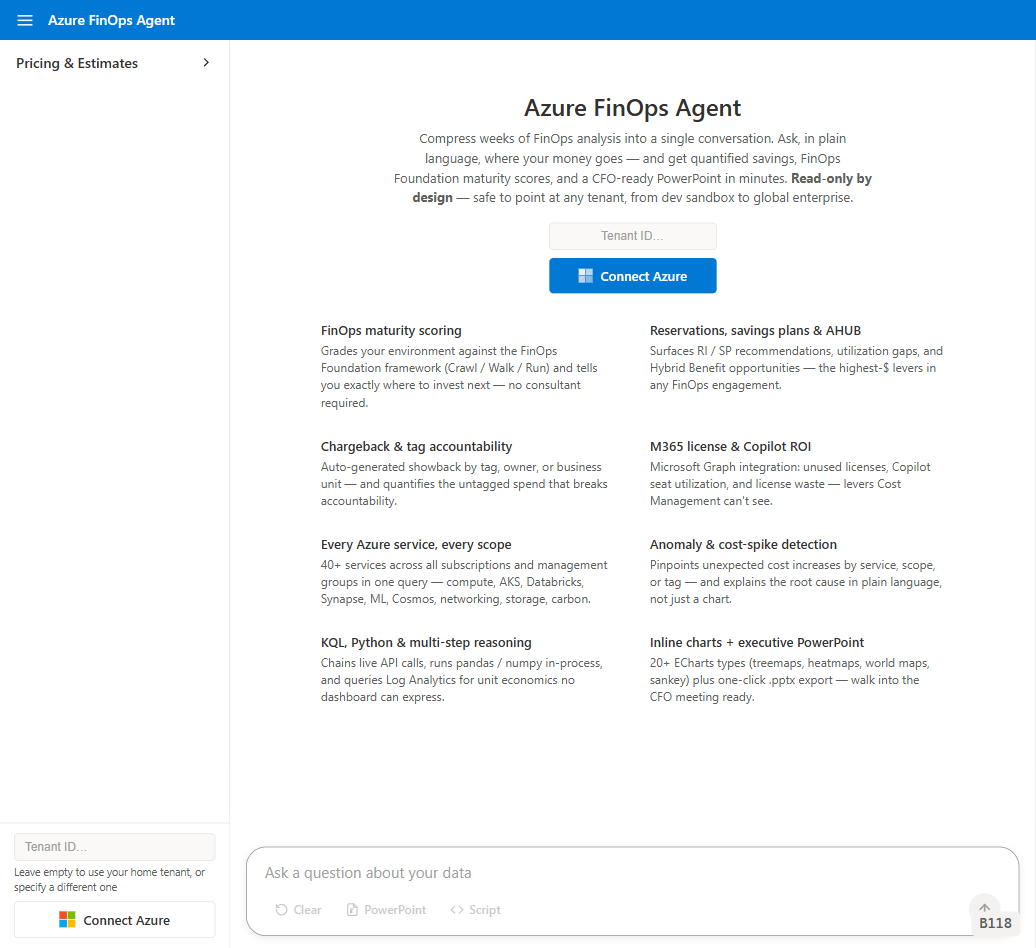
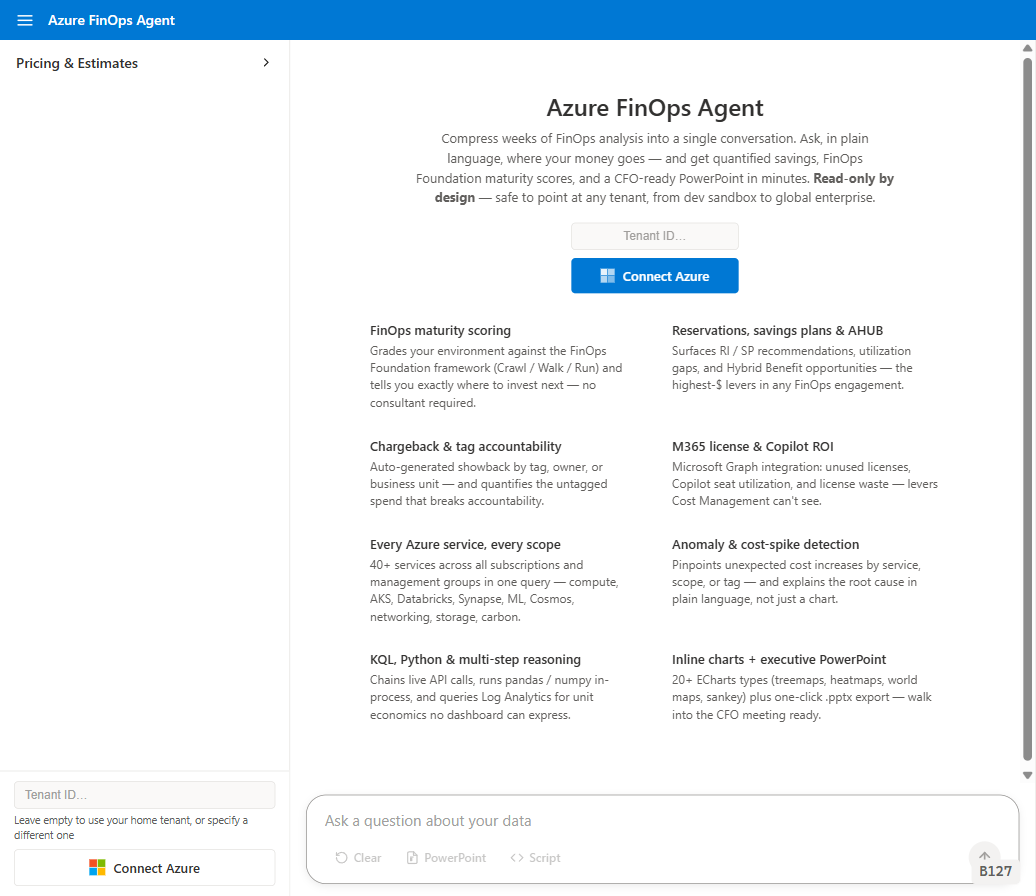
docs: refresh README screenshots (home, worldmap, signed-in)

diff --git a/README.md b/README.md
@@ -4,11 +4,17 @@ AI-powered conversational agent that turns Azure cost data into action. Connect 
 
 **[Live demo →](https://azure-finops-agent.com)**
 
-![Azure FinOps Agent — world map of current vs upcoming Azure regions](assets/screenshot-worldmap.png)
+![Azure FinOps Agent home — connect any Azure tenant in one click](assets/screenshot-home.png)
 
-> _Example: "Show me all current Azure data centers in one color and upcoming data centers in another color on a world map" — answered in seconds, no Azure login required for public-data queries._
+> _Landing page: read-only by design. Drop in a Tenant ID (or leave it blank for your home tenant) and click **Connect Azure** to start a session — incremental consent means no admin sign-off needed for the base ARM scope._
 
-![Azure FinOps Agent home](assets/screenshot-home.png)
+![Azure FinOps Agent — signed in with all add-on scopes consented](assets/screenshot-loggedin.png)
+
+> _Signed-in view: the sidebar reveals the **Crawl / Walk / Run / Playbook** maturity categories plus the **Subscriptions** browser. The **Add Scopes** panel shows incremental consent — License Optimization, Cost Allocation & Chargeback, Log Analytics Deep Dives, and Cost Exports each granted as a separate delegated, read-only Microsoft Entra consent (✅ green). Revoke any scope at any time._
+
+![Azure FinOps Agent — world map of current vs upcoming Azure regions, rendered in the chat with live tool calls](assets/screenshot-worldmap.png)
+
+> _Example session: "Show me all current Azure data centers in one color and upcoming data centers in another color on a world map" — answered in seconds with an interactive ECharts world map. The right-hand **Tools** panel streams every tool call live (`RenderAdvancedChart`, `web_fetch`, `report_intent`) so you can see exactly what the agent did. No Azure login required for public-data queries like this one._
 
 ## What It Does
 
